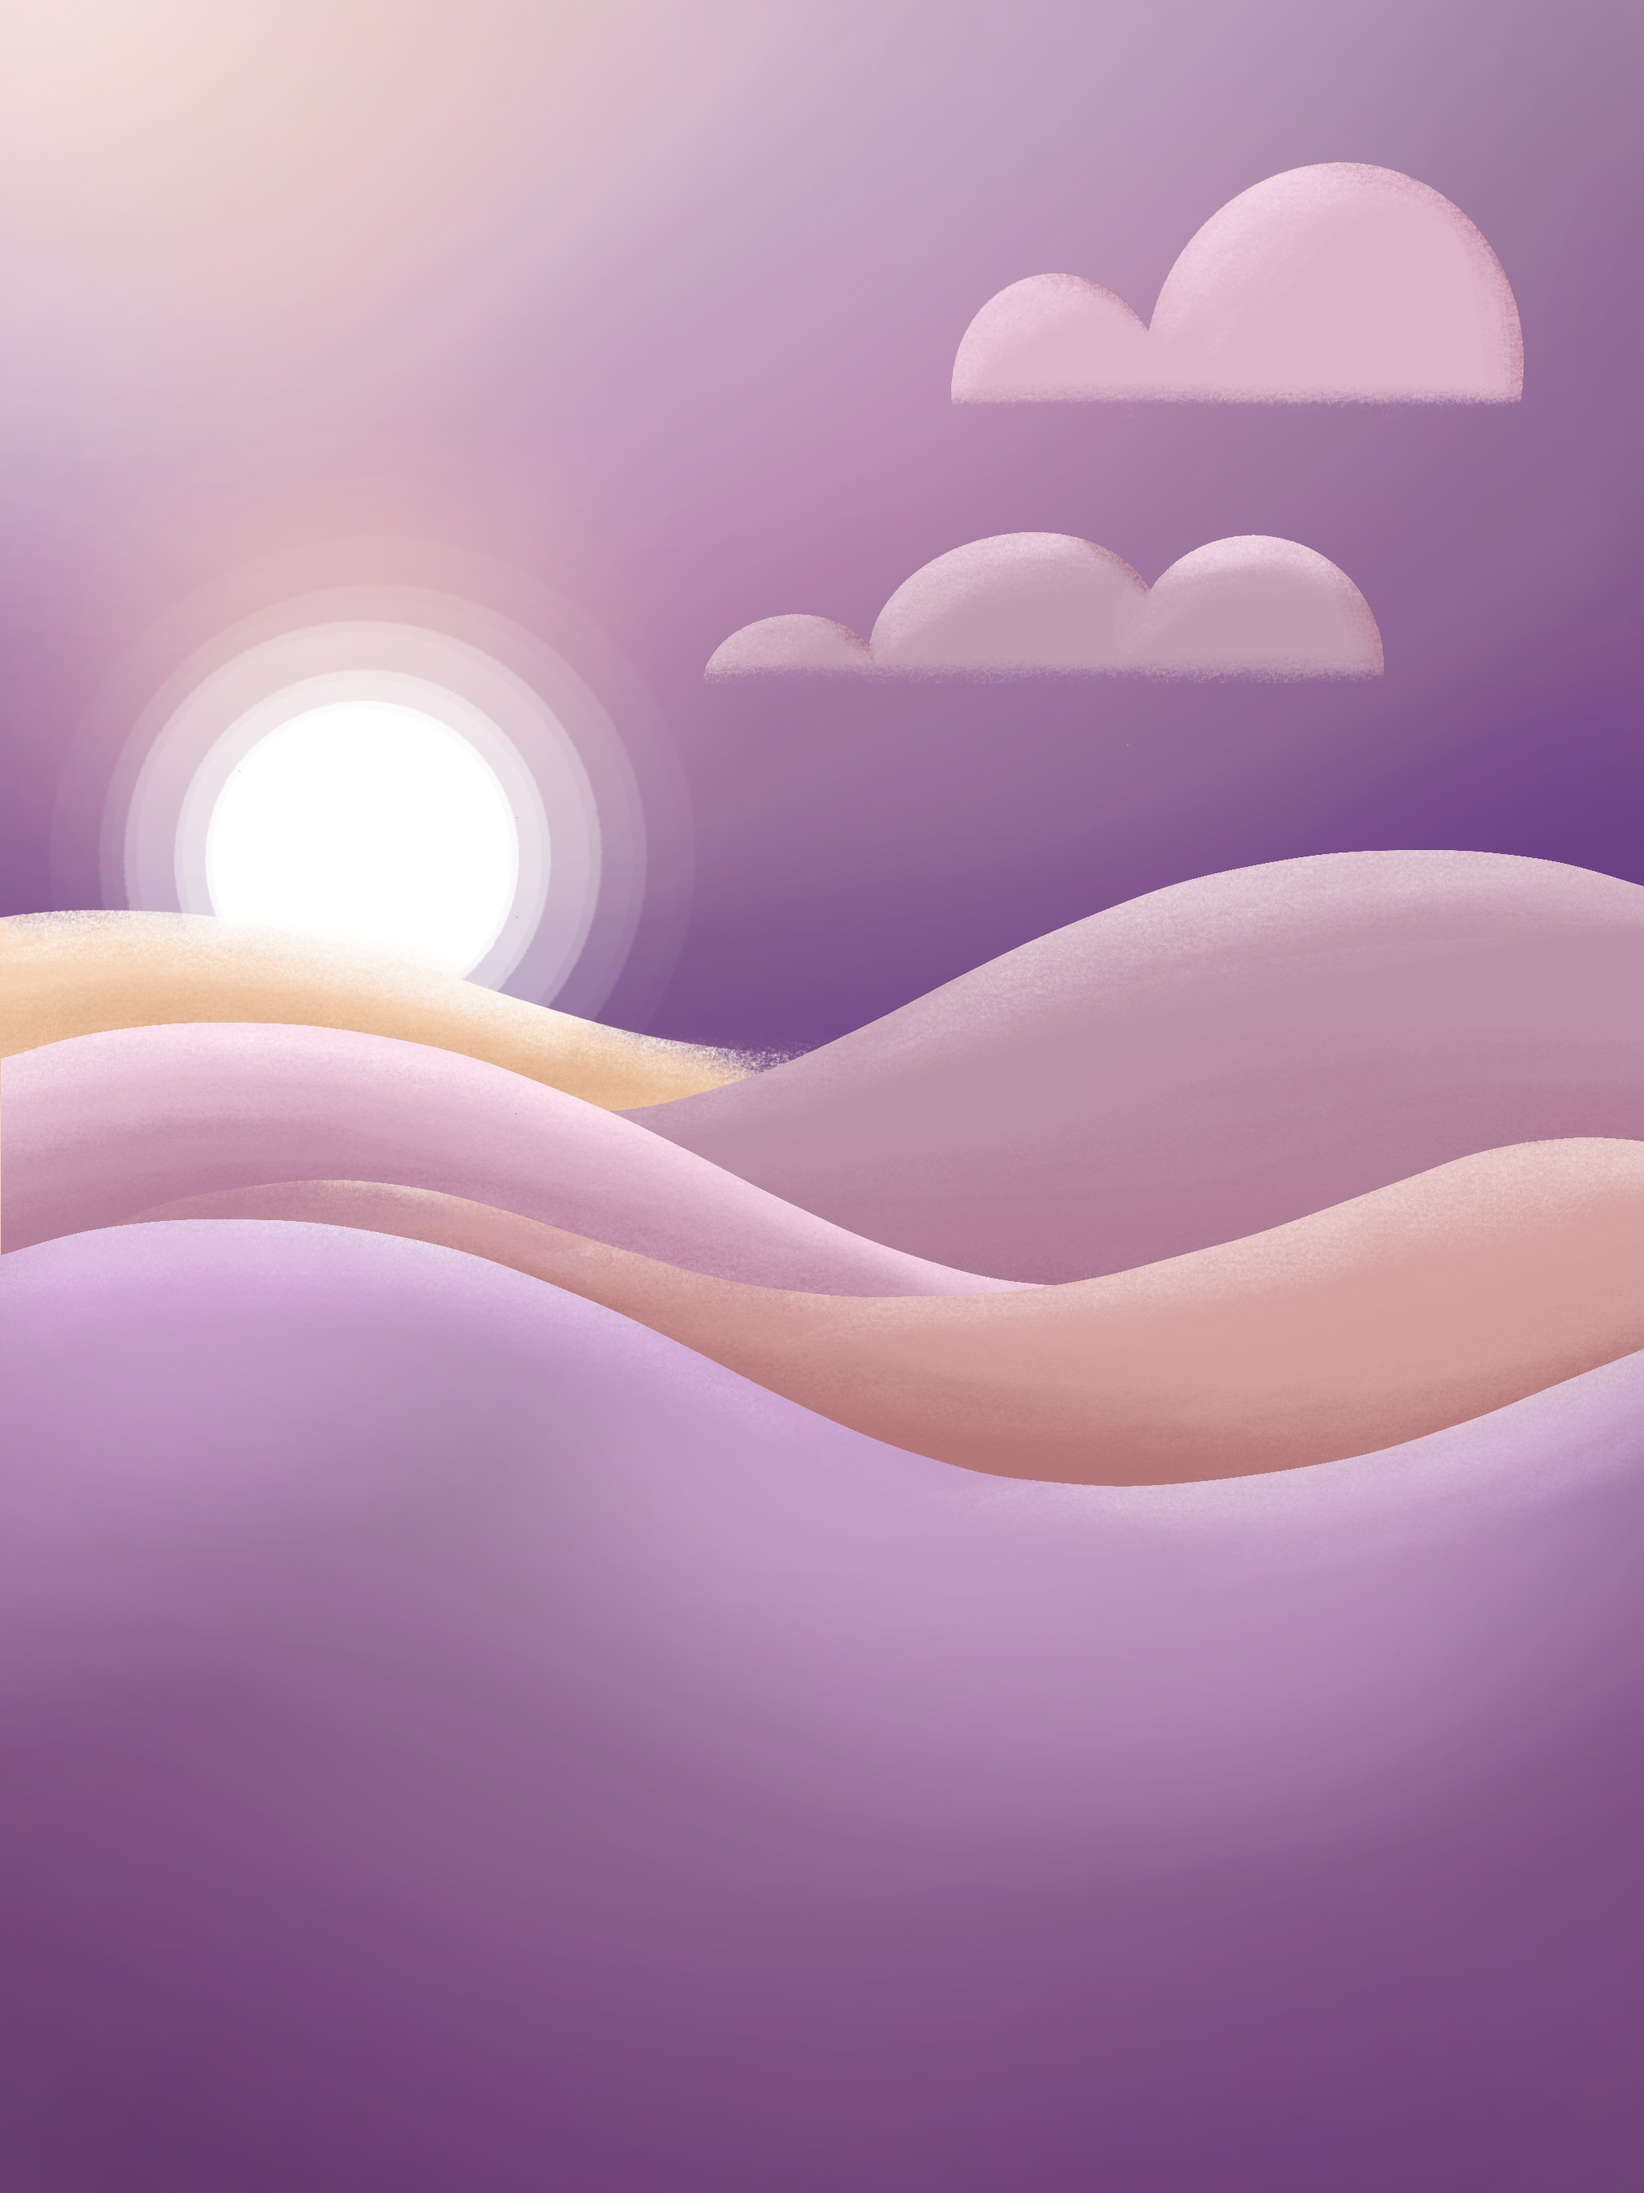
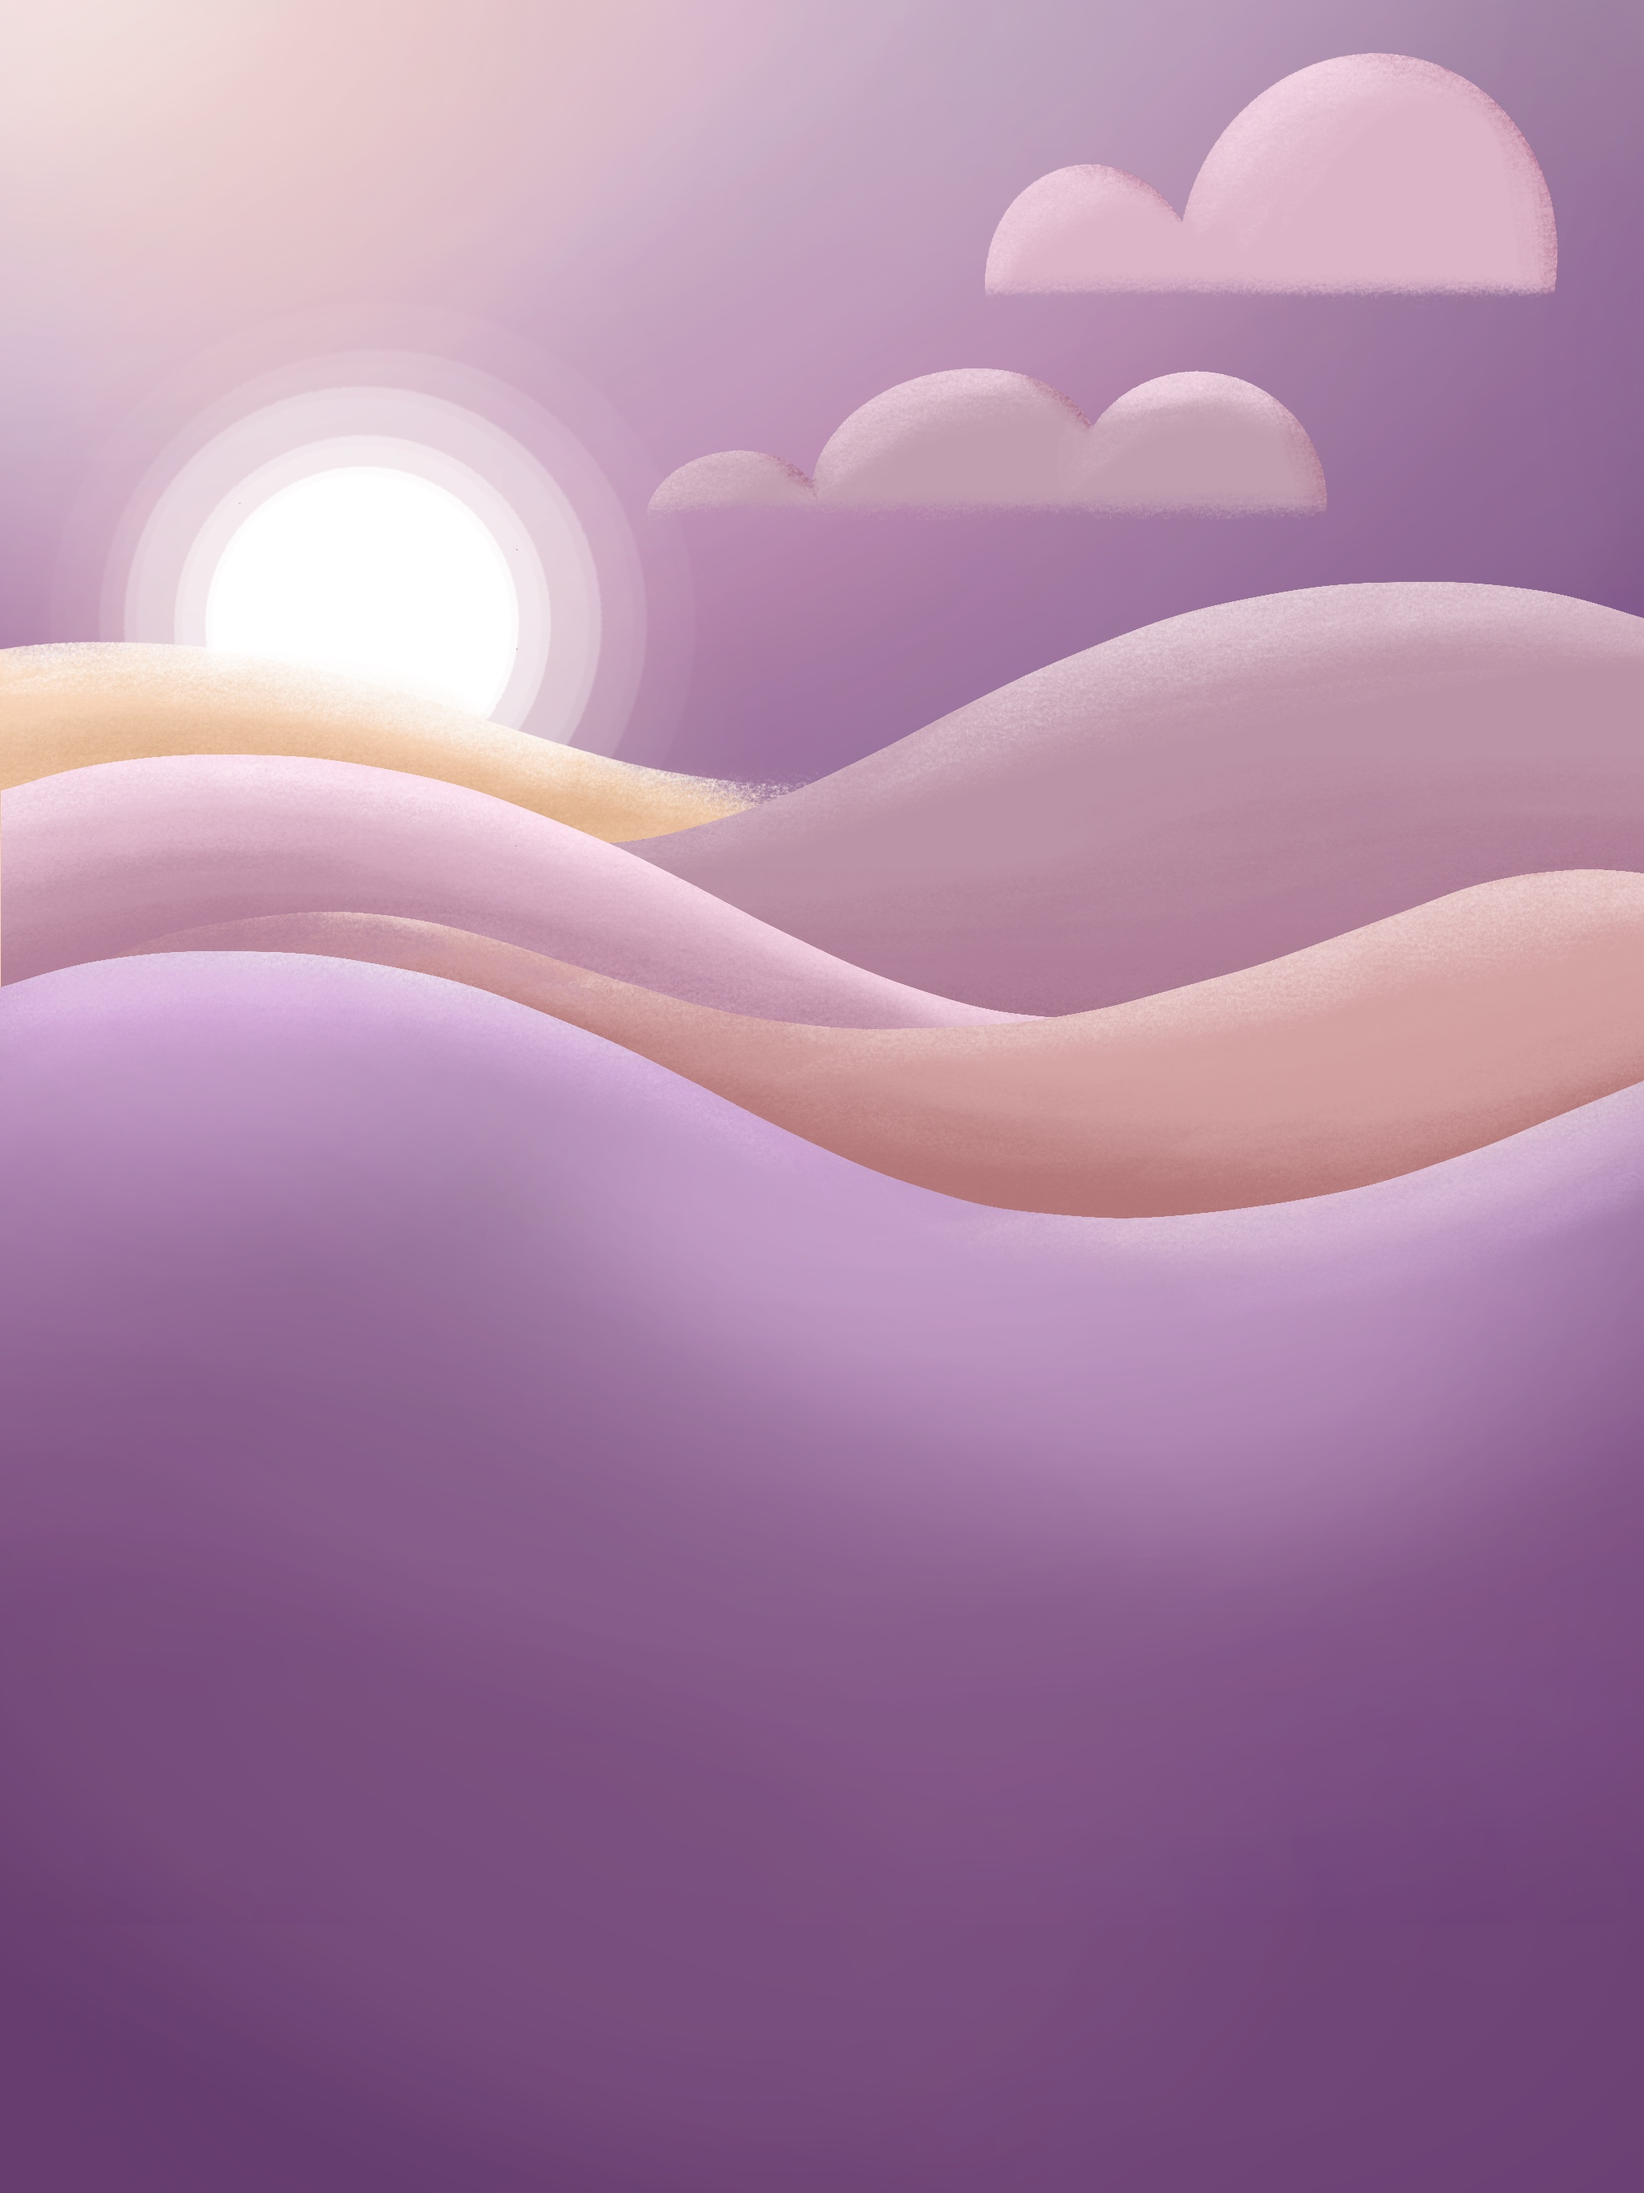
All background illustrations added and background if else JS tweaked

diff --git a/src/script.js b/src/script.js
@@ -33,6 +33,10 @@ let month = months[currentTime.getMonth()];
 if (minutes < 10) {
   minutes = "0" + minutes;
 }
+if (hours < 10) {
+  hours = "0" + hours;
+}
+
 h2.innerHTML = `${day} ${date} ${month} ${hours}:${minutes}`;
 
 let currentLocationButton = document.querySelector("#current-location-btn");
@@ -125,10 +129,9 @@ function showTemperature(response) {
 }
 
 function getForecast(coordinates) {
-  console.log(coordinates);
   let apiKey = "1b5c1d1caa03aacc229826f51a319b3a";
   let apiUrl = `https://api.openweathermap.org/data/2.5/onecall?lat=${coordinates.lat}&lon=${coordinates.lon}&appid=${apiKey}&units=metric`;
-  console.log(apiUrl);
+
   axios.get(apiUrl).then(displayForecast);
 }
 
@@ -175,16 +178,30 @@ function getCurrentLocation(event) {
 function dayAndNight() {
   let current = new Date();
   let dayNight = current.getHours();
-  if (dayNight >= 6 && dayNight < 19) {
+
+  if (dayNight >= 12 && dayNight < 18) {
     let background = document.querySelector("#main-body");
-    background.style.backgroundImage = "url('../images/snow.jpeg')";
-  } else if (dayNight >= 20 && dayNight < 5) {
+    background.style.backgroundImage =
+      "url('../weather-app-gg/images/midday.jpeg')";
+  } else if (dayNight >= 18 && dayNight < 22) {
     let background = document.querySelector("#main-body");
     background.style.backgroundImage = background.style.backgroundImage =
-      "url('../images/snow.jpeg')";
+      "url('../weather-app-gg/images/evening.jpeg')";
+  } else if (dayNight >= 22 && dayNight < 5) {
+    let background = document.querySelector("#main-body");
+    background.style.backgroundImage = background.style.backgroundImage =
+      "url('../weather-app-gg/images/night.jpeg')";
+  } else if (dayNight >= 5 && dayNight < 7) {
+    let background = document.querySelector("#main-body");
+    background.style.backgroundImage = background.style.backgroundImage =
+      "url('../weather-app-gg/images/sunrise.jpeg')";
+  } else {
+    let background = document.querySelector("#main-body");
+    background.style.backgroundImage = background.style.backgroundImage =
+      "url('../weather-app-gg/images/morning.jpeg')";
   }
 }
 
 dayAndNight();
-searchCity("Cardiff");
+searchCity("London");
 displayForecast();

diff --git a/src/styles.css b/src/styles.css
@@ -15,7 +15,7 @@ h3 {
 }
 
 h4 {
-  font-size: 80px;
+  font-size: 90px;
   color: #ffffff;
   text-align: center;
 }
@@ -23,7 +23,7 @@ h4 {
 h5 {
   margin-top: -10px;
   font-size: 15px;
-  color: #385170;
+  color: #142d4c;
   text-align: center;
 }
 
@@ -43,8 +43,8 @@ ul {
 }
 
 .btn-primary {
-  background-color: #385170;
-  border: 1px solid #385170;
+  background-color: transparent;
+  border: none;
 }
 
 .btn-primary:hover {
@@ -52,8 +52,8 @@ ul {
 }
 
 .btn-secondary {
-  background-color: #385170;
-  border: 1px solid #385170;
+  background-color: transparent;
+  border: none;
 }
 
 .btn-secondary:hover {
@@ -95,21 +95,26 @@ ul {
 }
 
 .weather-forecast-temperatures {
+  color: #385170;
   font-size: 13px;
 }
 
 .weather-forecast-temperature-min {
-  opacity: 0.7;
+  color: #385170;
+  opacity: 0.8;
 }
 
 #main-body {
-  background-color: white;
+  background-image: "url('../weather-app-gg/images/snow.jpeg')";
+  background-repeat: no-repeat;
+  background-size: cover;
   padding: 40px;
   margin-top: 20px;
   margin-bottom: 10px;
   border: 1px solid #ececec;
   box-shadow: 5px 5px 5px #ececec;
   border-radius: 15px;
+  min-height: 480px;
 }
 
 #wrapper {
@@ -126,6 +131,7 @@ ul {
   width: 80px;
   display: block;
   margin: 0 auto;
+  margin-top: -10px;
 }
 
 #units-style,

diff --git a/index.html b/index.html
@@ -35,7 +35,7 @@
                   src="images/search.png"
                   alt="search-button"
                   id="search-btn-img"
-                  width="15px"
+                  width="18px"
                 />
               </button>
             </div>
@@ -49,7 +49,7 @@
                   src="images/location.png"
                   alt="current-location"
                   id="location-btn-img"
-                  width="15px"
+                  width="20px"
                 />
               </button>
             </div>
